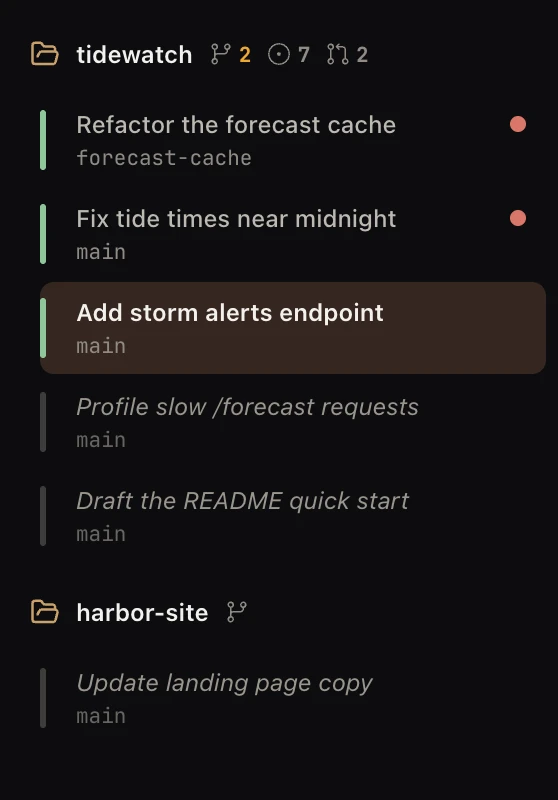
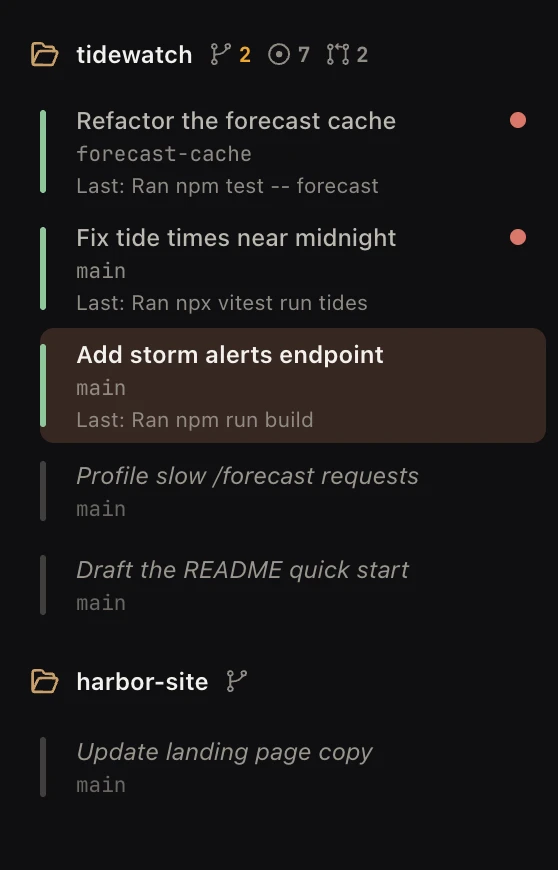
docs(site): retake the sidebar and web tab screenshots

diff --git a/site/sessions/index.html b/site/sessions/index.html
@@ -81,13 +81,13 @@
       <main>
         <h1 class="title">Folders and their sessions</h1>
 
-        <figure class="shot is-narrow" style="--ar: 558 / 800">
+        <figure class="shot is-narrow" style="--ar: 558 / 870">
           <div class="frame">
             <img
               src="../img/a-sidebar.webp"
               width="558"
-              height="800"
-              alt="Two folders in the sidebar: the folder tidewatch with a branch sign, 2 behind, 7 open issues and 2 open pull requests, five sessions under it with their branch names, two of them with a red dot; below it the folder harbor-site with one session"
+              height="870"
+              alt="Two folders in the sidebar: the folder tidewatch with a branch sign, 2 behind, 7 open issues and 2 open pull requests, five sessions under it with their branch names; the three open ones also say what their agent did last, like Last: Ran npm run build, and two of them have a red dot; below it the folder harbor-site with one session"
             />
           </div>
           <figcaption>
@@ -239,12 +239,12 @@
         </ul>
 
         <h2 id="keep-running">Keep running</h2>
-        <figure class="shot is-narrow" style="--ar: 554 / 578">
+        <figure class="shot is-narrow" style="--ar: 558 / 668">
           <div class="frame">
             <img
               src="../img/p-keep-running.webp"
-              width="554"
-              height="578"
+              width="558"
+              height="668"
               loading="lazy"
               alt="The tidewatch sessions; the row Fix tide times near midnight has a small pin before its name"
             />
@@ -446,12 +446,12 @@
           thin line down its left. A session that one of those starts hangs one level deeper. The
           row is there from the moment it reads Starting….
         </p>
-        <figure class="shot is-narrow" style="--ar: 558 / 578">
+        <figure class="shot is-narrow" style="--ar: 558 / 722">
           <div class="frame">
             <img
               src="../img/v-session-tree.webp"
               width="558"
-              height="578"
+              height="722"
               loading="lazy"
               alt="The folder tidewatch: the session Add storm alerts endpoint with two sessions set in under it, Update the API docs and Write the storm alert tests, and under the second of those, one level deeper, Check the test fixtures; below them all, Fix tide times near midnight on its own"
             />
@@ -464,12 +464,12 @@
           <a href="#red-dots">folded folder</a> does, and a grey count of all the hidden ones. Click
           the arrow again to see them.
         </p>
-        <figure class="shot is-narrow" style="--ar: 558 / 296">
+        <figure class="shot is-narrow" style="--ar: 558 / 366">
           <div class="frame">
             <img
               src="../img/v-session-tree-folded.webp"
               width="558"
-              height="296"
+              height="366"
               loading="lazy"
               alt="The same folder with Add storm alerts endpoint folded: a red 2 and a grey 3 at the right of its name, and the arrow now points right"
             />
@@ -542,12 +542,12 @@
         </ul>
 
         <h2>Right-click a session</h2>
-        <figure class="shot" style="--ar: 912 / 290; --w: min(456px, 100cqw)">
+        <figure class="shot" style="--ar: 916 / 444; --w: min(458px, 100cqw)">
           <div class="frame">
             <img
               src="../img/p-keep-running-menu2.webp"
-              width="912"
-              height="290"
+              width="916"
+              height="444"
               loading="lazy"
               alt="The row Add storm alerts endpoint with its right-click menu open: Reveal in Finder, Copy session ID, Keep running, Close"
             />

diff --git a/site/workbench/index.html b/site/workbench/index.html
@@ -293,7 +293,7 @@
                 width="1322"
                 height="792"
                 loading="lazy"
-                alt="A web tab in the Workbench showing a local API docs page at localhost:4173, with an address bar and back, forward and reload buttons"
+                alt="A web tab in the Workbench showing a local API docs page at localhost:4173, with an address bar, back, forward and reload buttons, and the button that picks a part of the page"
               />
             </picture>
           </div>
